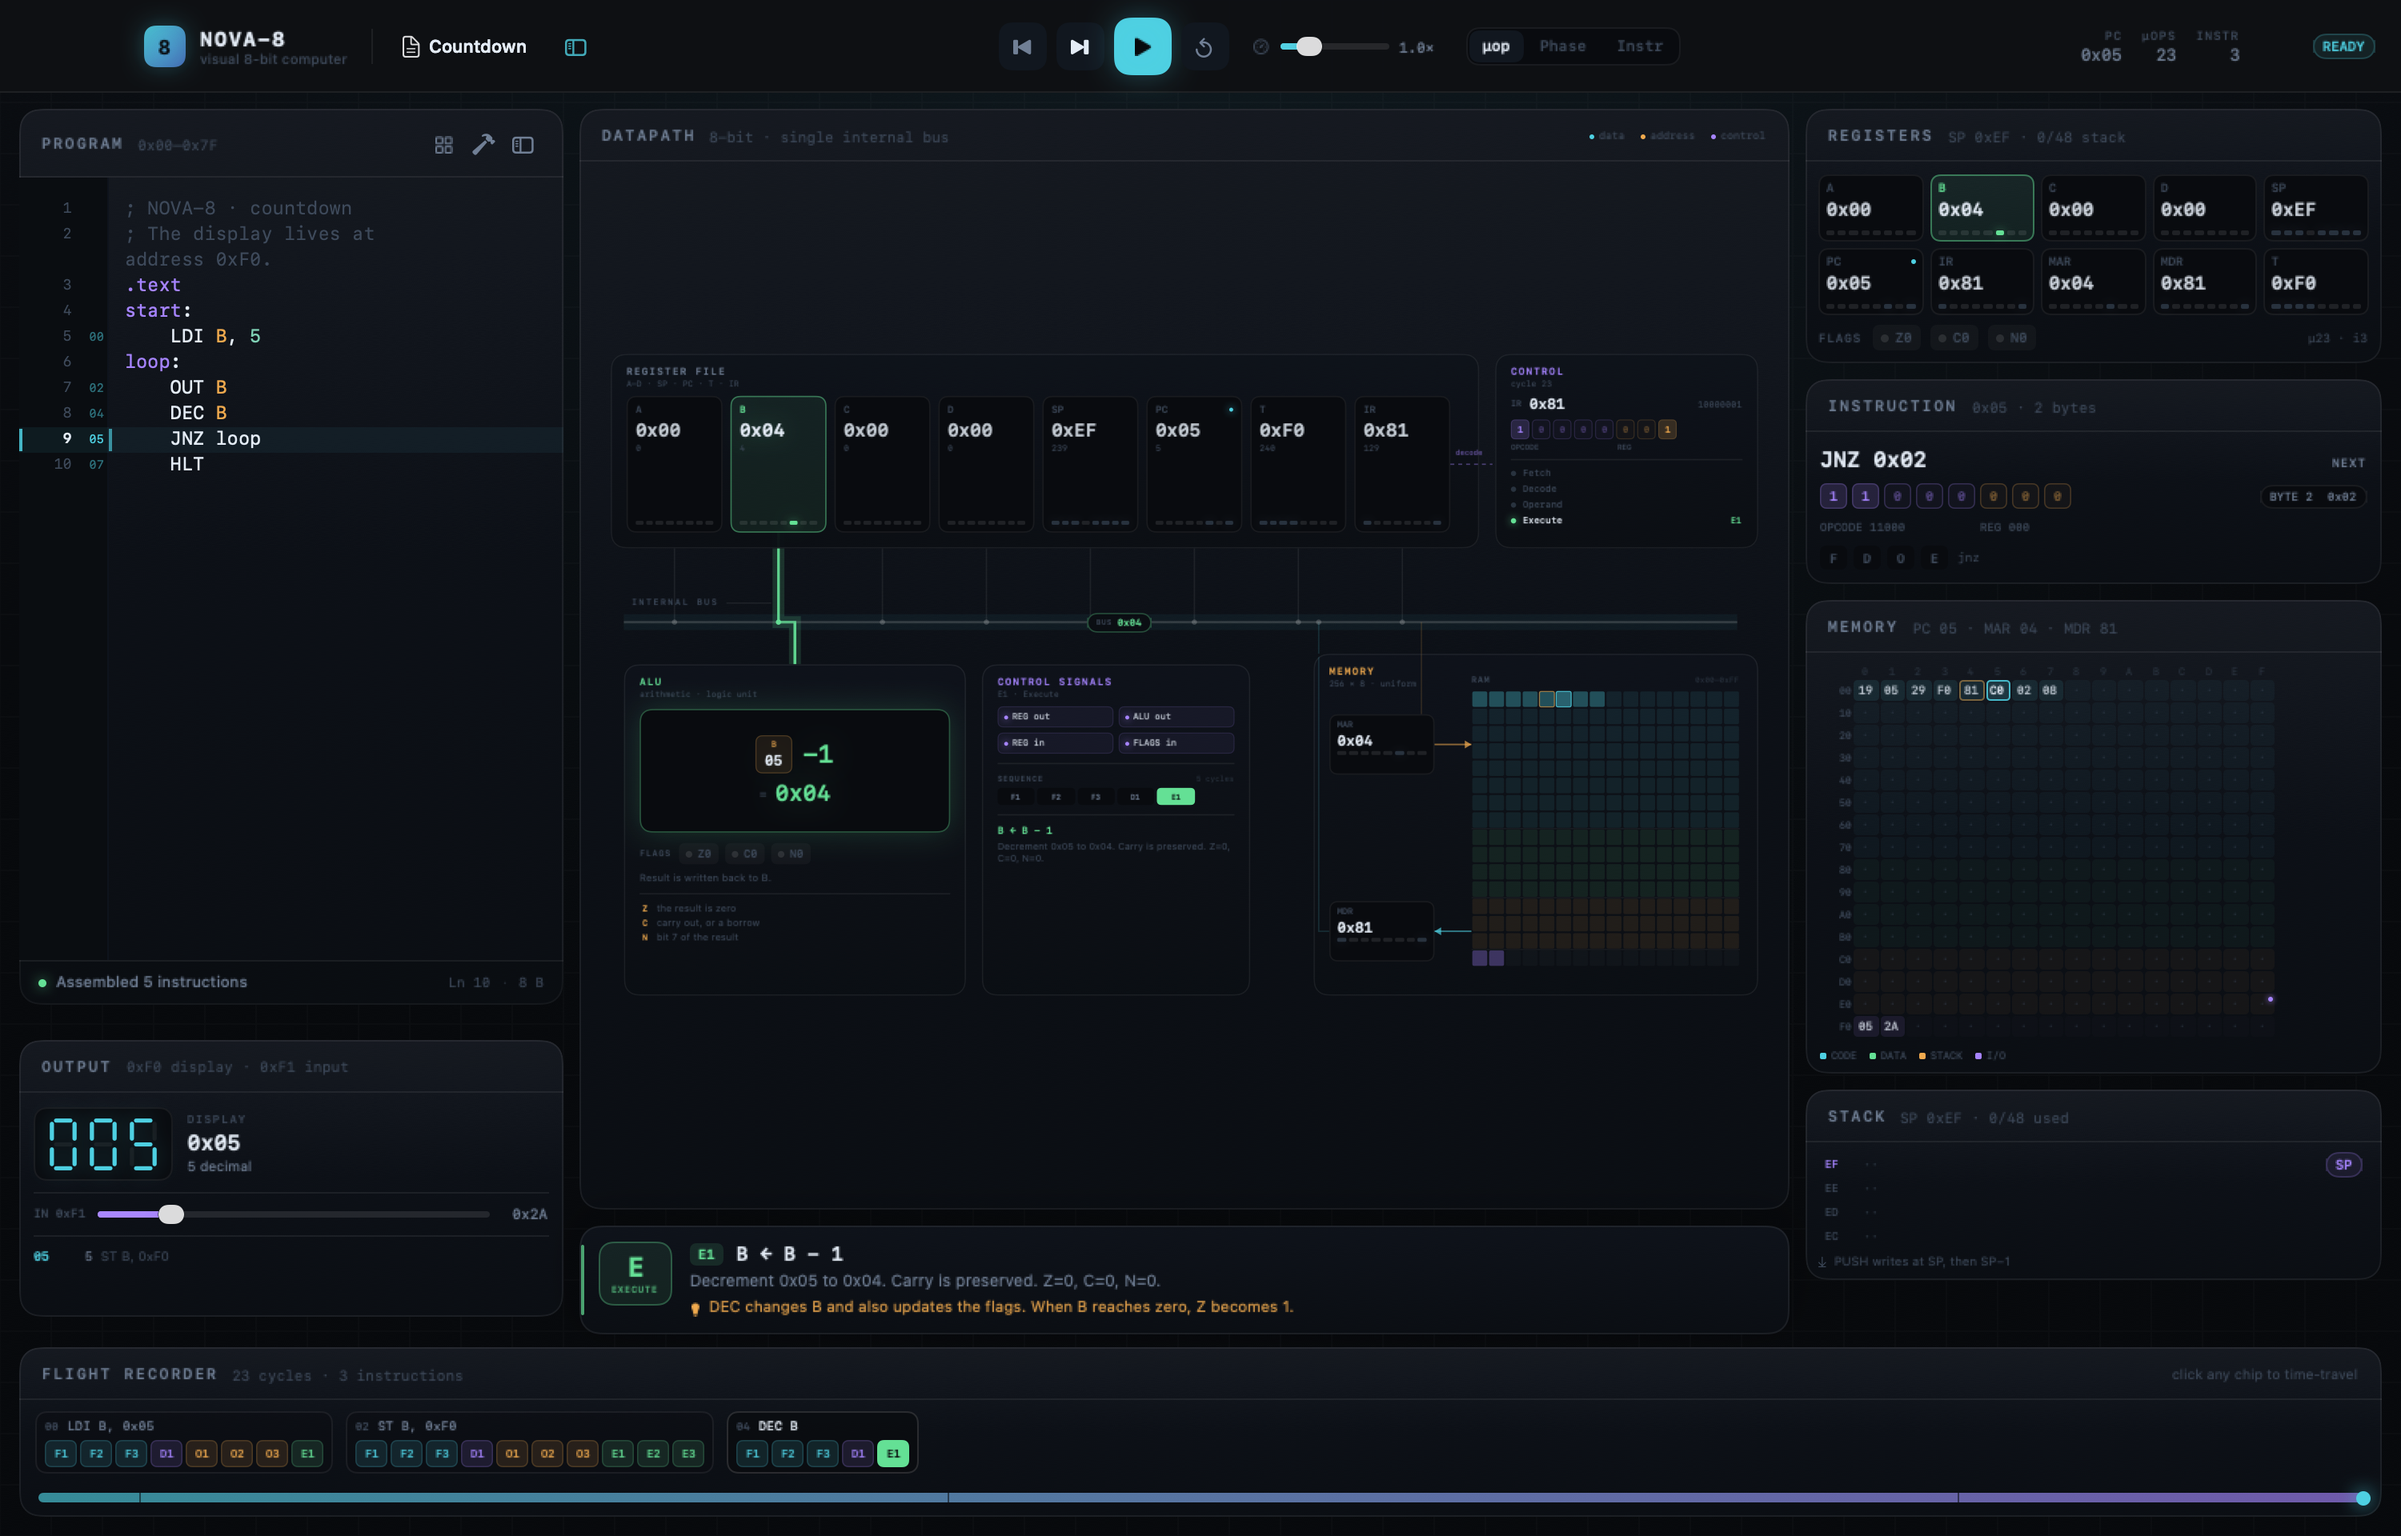
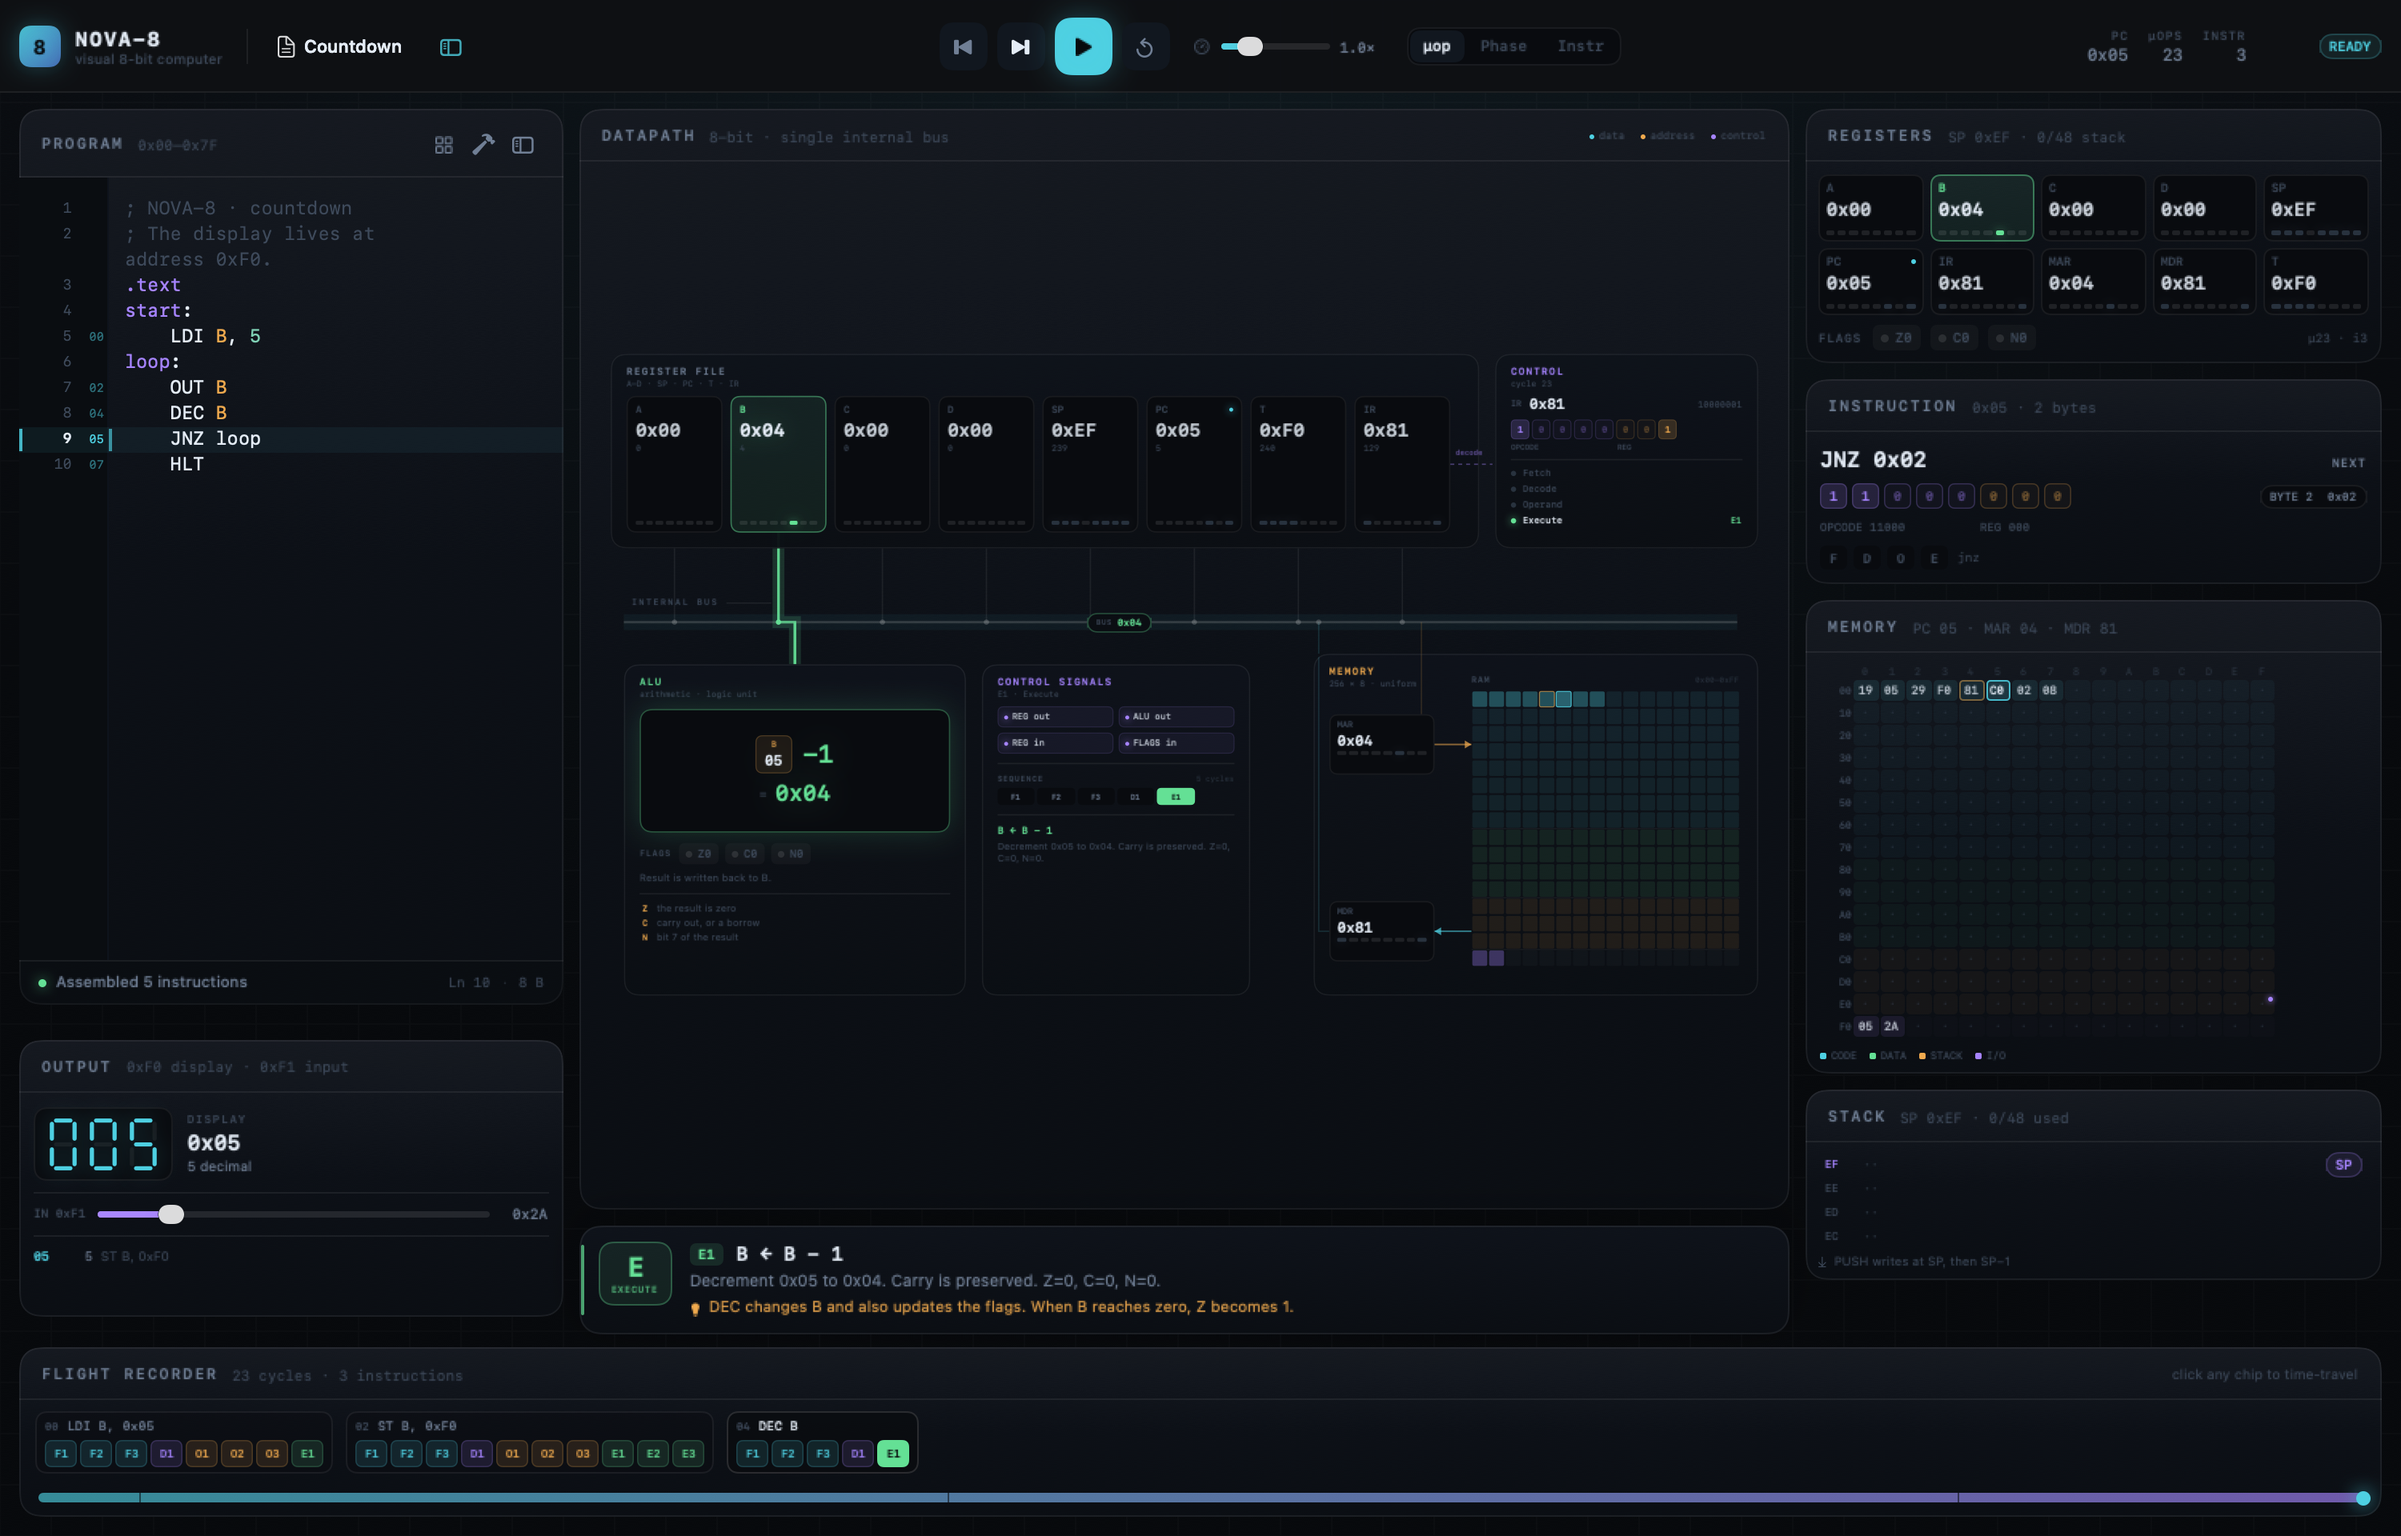
fix(ui): left-align the brand in the top bar
Remove the 74pt leading padding that assumed the bar sat under the
titlebar; the traffic lights live in the safe-area strip above it, so the
brand was pushed 90pt from the window edge. Align the bar with the 12pt
content gutter and extend its surface behind the titlebar strip so the
traffic lights sit on the bar instead of the grid background.

Refresh Docs/screenshot.png.

diff --git a/Nova8/UI/TopBar.swift b/Nova8/UI/TopBar.swift
@@ -8,7 +8,6 @@ struct TopBar: View {
 
         HStack(spacing: 14) {
             brand
-                .padding(.leading, 74)
 
             Rectangle()
                 .fill(Theme.stroke)
@@ -42,13 +41,16 @@ struct TopBar: View {
 
             stateBadge
         }
-        .padding(.horizontal, 16)
+        .padding(.horizontal, 12)
         .frame(height: 58)
         .background(
             ZStack {
                 Rectangle().fill(Theme.backgroundTop.opacity(0.92))
                 Rectangle().fill(.ultraThinMaterial).opacity(0.35)
             }
+            // Carry the bar's surface up behind the titlebar strip so the
+            // traffic lights sit on it instead of on the grid background.
+            .ignoresSafeArea(edges: .top)
         )
         .overlay(alignment: .bottom) {
             Rectangle().fill(Theme.stroke).frame(height: 1)
